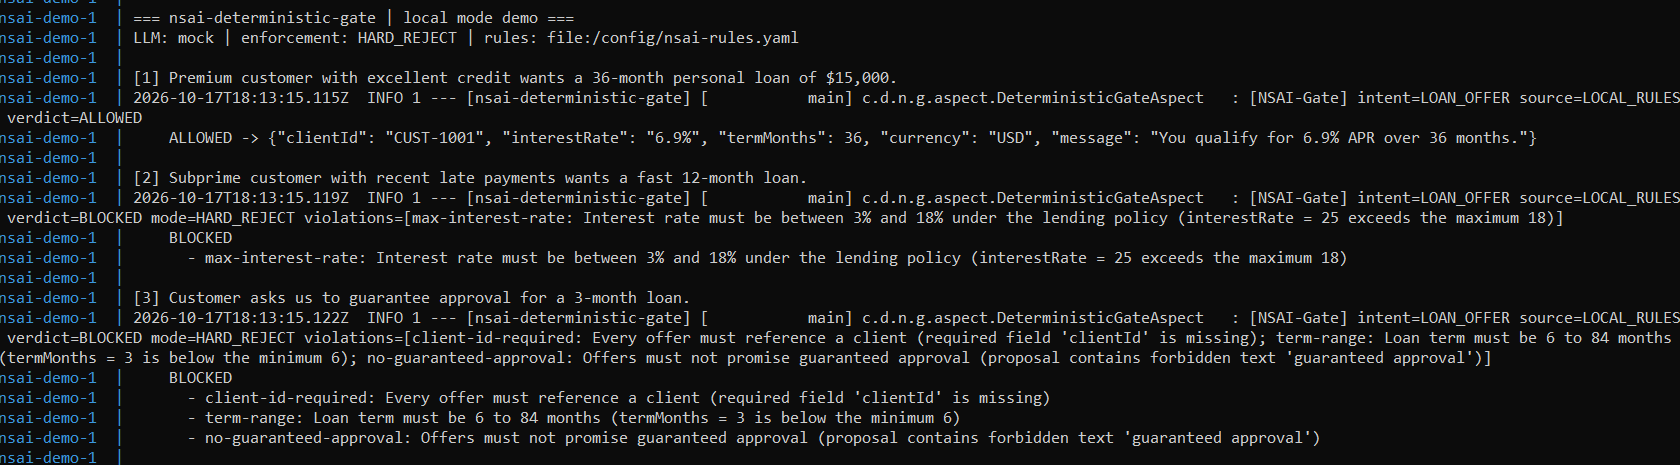
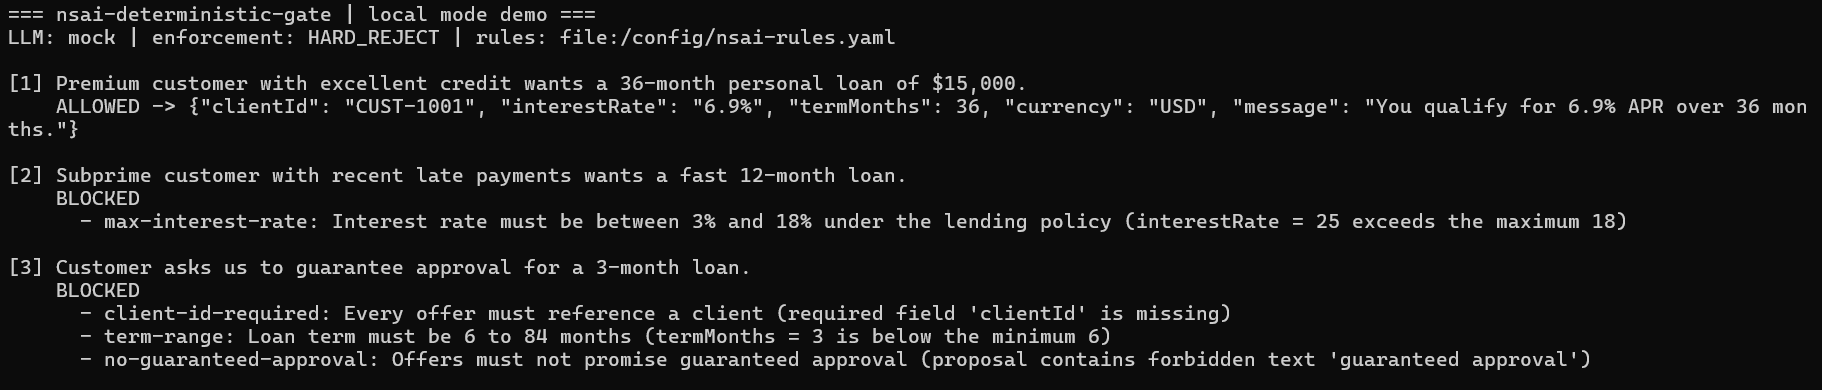
chore: remove legacy mock demo, deprecate unused hooks, fix javadoc, update screenshots (#31)

Changed region(s): [[0.0, 0.0, 1.0, 1.0]]

diff --git a/src/main/java/com/durgaprasad/nsai/NSAIDeterministcApplication.java b/src/main/java/com/durgaprasad/nsai/NSAIDeterministcApplication.java
@@ -1,40 +1,18 @@
 package com.durgaprasad.nsai;
 
-import com.durgaprasad.nsai.gate.exception.ComplianceViolationException;
-import com.durgaprasad.nsai.service.DemoAiService;
-import org.springframework.boot.CommandLineRunner;
 import org.springframework.boot.SpringApplication;
 import org.springframework.boot.autoconfigure.SpringBootApplication;
-import org.springframework.boot.autoconfigure.condition.ConditionalOnExpression;
-import org.springframework.context.annotation.Bean;
 import org.springframework.context.annotation.EnableAspectJAutoProxy;
 
+/**
+ * Runs the demo application. Start it with the {@code local} profile to see the gate in action:
+ * {@code ./gradlew bootRun --args='--spring.profiles.active=local'} (see the README).
+ */
 @SpringBootApplication
 @EnableAspectJAutoProxy
 public class NSAIDeterministcApplication {
 
     public static void main(String[] args) {
         SpringApplication.run(NSAIDeterministcApplication.class, args);
-    }
-
-    /**
-     * Original startup demo using the mock RDBMS connector. Disabled with
-     * {@code nsai.demo.run-on-startup=false}, and replaced by {@code LocalDemoRunner} in local mode.
-     */
-    @Bean
-    @ConditionalOnExpression("${nsai.demo.run-on-startup:true} and !${nsai.gateway.local.enabled:false}")
-    public CommandLineRunner runDemo(DemoAiService aiService) {
-        return args -> {
-            System.out.println("\n--- STARTING NEURO-SYMBOLIC VALIDATION TEST ---");
-            try {
-                // This will trigger the @NSDeterministicGate in DemoAiService
-                String result = aiService.simulateAiResponse("Requesting high interest loan...");
-                System.out.println("FINAL SYSTEM OUTPUT: " + result);
-            } catch (ComplianceViolationException e) {
-                // The gate blocked the output (HARD_REJECT, or SOFT_REPAIR when no rule allows a repair)
-                System.out.println("BLOCKED: " + e.getViolations());
-            }
-            System.out.println("--- TEST COMPLETE ---\n");
-        };
     }
 }

diff --git a/src/main/java/com/durgaprasad/nsai/core/SymbolicConnector.java b/src/main/java/com/durgaprasad/nsai/core/SymbolicConnector.java
@@ -4,16 +4,20 @@ import java.util.Map;
 import java.util.Optional;
 
 /**
- * Core interface for connecting Neural outputs to Symbolic Truth sources.
- * Implementations facilitate deterministic validation via Cloud Orchestrators 
- * like Google Cloud Workflows or AWS Step Functions.
- * * @author Durga Prasad Dasepalli
+ * A source of deterministic rules that the gate checks LLM output against.
+ * <p>
+ * Built-in sources: {@code LOCAL_RULES} (YAML file) and {@code NEO4J_RULES} (Neo4j graph).
+ * To add your own, implement this interface, register it as a Spring bean and name its
+ * {@link #getSourceIdentifier() identifier} in {@code @NSDeterministicGate(symbolicSource = ...)}.
+ *
+ * @author Durga Prasad Dasepalli
  */
 public interface SymbolicConnector {
 
     /**
      * Validates a neural proposal against the symbolic layer.
-     * * @param intent The business intent being validated.
+     *
+     * @param intent The business intent being validated.
      * @param neuralProposal The raw output from the LLM.
      * @param context Additional metadata for validation (e.g., user ID, region).
      * @return boolean True if the proposal meets deterministic constraints.
@@ -47,14 +51,16 @@ public interface SymbolicConnector {
     }
 
     /**
-     * Retrieves the specific symbolic source identifier (e.g., "GCP_KNOWLEDGE_GRAPH").
+     * The identifier used in {@code @NSDeterministicGate(symbolicSource = ...)}, e.g. {@code "LOCAL_RULES"}.
      */
     String getSourceIdentifier();
 
     /**
-     * Optional: Triggers the ML Diagnostic layer if a validation failure occurs.
+     * @deprecated Left over from an earlier design; the gate never calls it. Every decision is
+     * already written to the audit log. Will be removed in a later release.
      */
+    @Deprecated(since = "1.5.0", forRemoval = true)
     default void logDiagnosticData(String neuralProposal, String failureReason) {
-        // Implementation for ML-driven Hallucination Classification
+        // no-op
     }
 }

diff --git a/src/main/java/com/durgaprasad/nsai/annotation/NSDeterministicGate.java b/src/main/java/com/durgaprasad/nsai/annotation/NSDeterministicGate.java
@@ -6,9 +6,10 @@ import java.lang.annotation.RetentionPolicy;
 import java.lang.annotation.Target;
 
 /**
- * Annotation to mark methods for Neuro-Symbolic (NSAI) validation.
- * Intercepts LLM outputs and validates them against a deterministic symbolic layer.
- * * @author Durga Prasad Dasepalli
+ * Marks a method whose return value (LLM output) is checked against deterministic rules
+ * before it is returned. The gate fails closed: an answer it cannot check is refused.
+ *
+ * @author Durga Prasad Dasepalli
  */
 @Target(ElementType.METHOD)
 @Retention(RetentionPolicy.RUNTIME)
@@ -23,7 +24,7 @@ public @interface NSDeterministicGate {
      * The symbolic source to validate against, e.g. {@code "LOCAL_RULES"} or {@code "NEO4J_RULES"}.
      * Property placeholders are resolved, e.g. {@code "${app.rule-source:LOCAL_RULES}"}.
      */
-    String symbolicSource() default "DEFAULT_RDBMS";
+    String symbolicSource() default "LOCAL_RULES";
 
     /**
      * In SOFT_REPAIR mode, allows the symbolic source to repair a failing proposal
@@ -40,7 +41,9 @@ public @interface NSDeterministicGate {
     boolean enableMLDiagnostics() default true;
 
     /**
-     * Fallback method name if the symbolic layer blocks the neural proposal.
+     * @deprecated Never implemented; the value is ignored. To fall back when an answer is
+     * blocked, catch {@code ComplianceViolationException}. Will be removed in a later release.
      */
+    @Deprecated(since = "1.5.0", forRemoval = true)
     String fallbackMethod() default "";
 }

diff --git a/src/main/java/com/durgaprasad/nsai/local/LocalRuleConnector.java b/src/main/java/com/durgaprasad/nsai/local/LocalRuleConnector.java
@@ -5,8 +5,6 @@ import com.durgaprasad.nsai.core.SymbolicConnector;
 import com.durgaprasad.nsai.core.ValidationResult;
 import com.durgaprasad.nsai.local.rules.RuleEvaluator;
 import com.durgaprasad.nsai.local.rules.RuleRepairer;
-import org.slf4j.Logger;
-import org.slf4j.LoggerFactory;
 
 import java.util.Map;
 import java.util.Optional;
@@ -20,8 +18,6 @@ import java.util.Optional;
 public class LocalRuleConnector implements SymbolicConnector {
 
     public static final String SOURCE_ID = "LOCAL_RULES";
-
-    private static final Logger log = LoggerFactory.getLogger(LocalRuleConnector.class);
 
     private final RuleEvaluator evaluator;
     private final RuleRepairer repairer;
@@ -50,10 +46,5 @@ public class LocalRuleConnector implements SymbolicConnector {
     @Override
     public String getSourceIdentifier() {
         return SOURCE_ID;
-    }
-
-    @Override
-    public void logDiagnosticData(String neuralProposal, String failureReason) {
-        log.info("[LocalRules] Proposal failed deterministic rules: {}", failureReason);
     }
 }

diff --git a/src/test/java/com/durgaprasad/nsai/core/SymbolicConnectorTest.java b/src/test/java/com/durgaprasad/nsai/core/SymbolicConnectorTest.java
@@ -36,14 +36,6 @@ class SymbolicConnectorTest {
     }
 
     @Test
-    @DisplayName("MockRdbmsConnector names the rule that failed")
-    void mockConnectorReportsItsRule() {
-        ValidationResult result = new MockRdbmsConnector().evaluate("LOAN_OFFER", "Your rate is 25%.", Map.of());
-
-        assertEquals(List.of("mock-rate-cap"), result.violations().stream().map(Violation::ruleId).toList());
-    }
-
-    @Test
     @DisplayName("ValidationResult rejects contradictory states")
     void validationResultInvariants() {
         assertTrue(ValidationResult.pass().violations().isEmpty());

diff --git a/src/main/java/com/durgaprasad/nsai/gate/aspect/DeterministicGateAspect.java b/src/main/java/com/durgaprasad/nsai/gate/aspect/DeterministicGateAspect.java
@@ -36,8 +36,9 @@ public class DeterministicGateAspect {
 
     private static final Logger log = LoggerFactory.getLogger(DeterministicGateAspect.class);
 
-    @Autowired
-    private List<SymbolicConnector> connectors;
+    // Optional: with no rule source registered the gate still starts, and every gated call fails closed.
+    @Autowired(required = false)
+    private List<SymbolicConnector> connectors = List.of();
 
     @Autowired
     private EnforcementConfig enforcementConfig;

diff --git a/CHANGELOG.md b/CHANGELOG.md
@@ -4,6 +4,21 @@ All notable changes to this project are documented here. The format follows
 [Keep a Changelog](https://keepachangelog.com/en/1.1.0/), and the project uses
 [Semantic Versioning](https://semver.org/).
 
+## [Unreleased]
+
+### Changed
+- `@NSDeterministicGate(symbolicSource)` now defaults to `LOCAL_RULES`; the old default pointed to a
+  mock connector that has been removed.
+
+### Deprecated
+- `SymbolicConnector.logDiagnosticData(...)`: never called by the gate; every decision is already in
+  the audit log.
+- `@NSDeterministicGate(fallbackMethod = ...)`: never implemented; catch `ComplianceViolationException`
+  to fall back.
+
+### Removed
+- The original startup demo (`DemoAiService`, `MockRdbmsConnector`), replaced by the local-mode demo.
+
 ## [1.4.0] - 2026-10-19
 
 The gate can now be tried in five minutes with no cloud account, checks AI answers against
